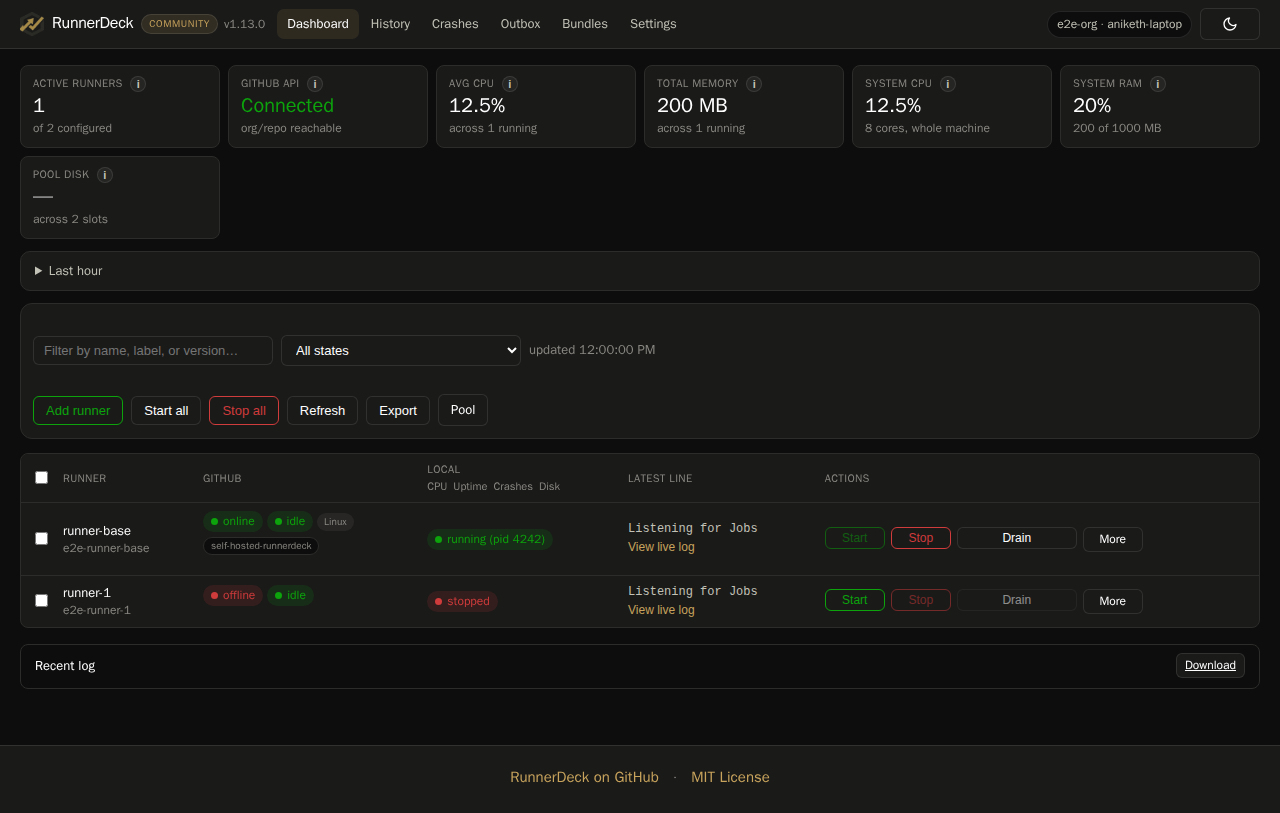
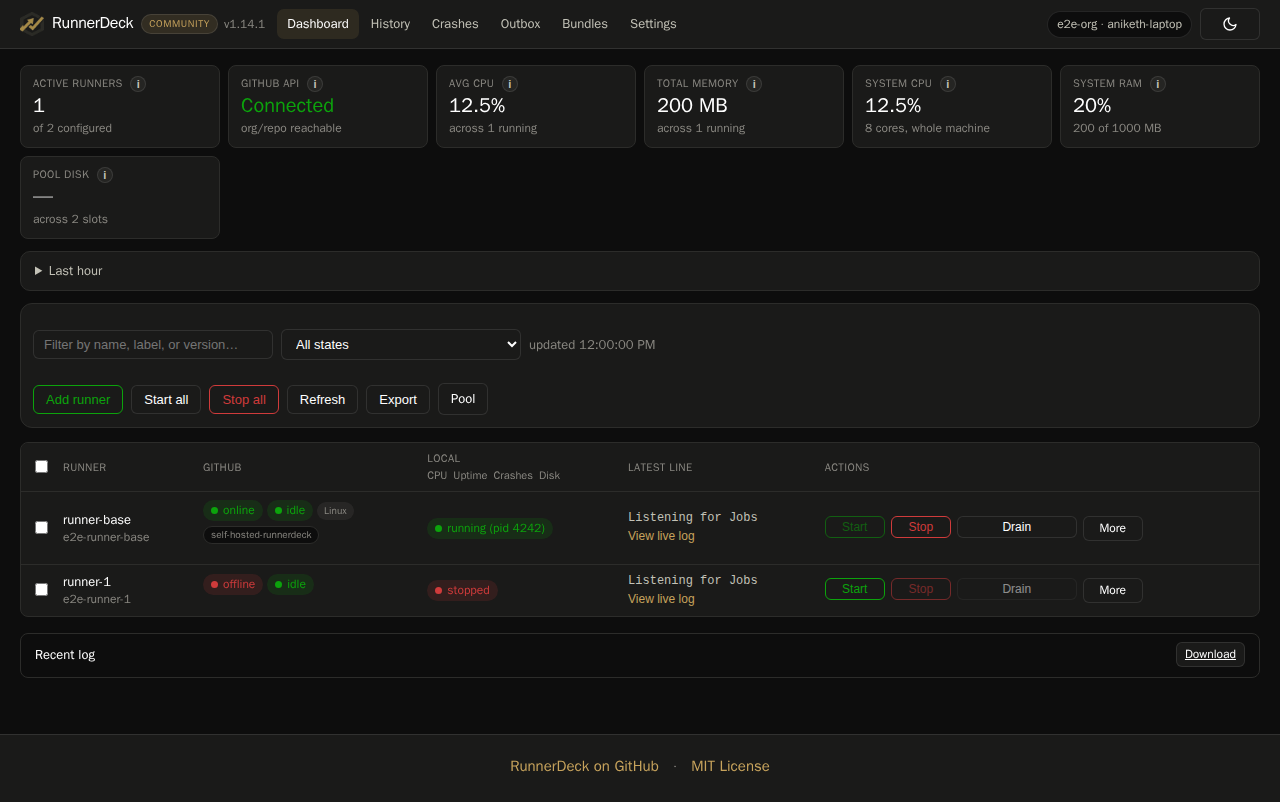
Show recent jobs, a needs-attention filter, and the row count. (#235)
* Show recent jobs, a needs-attention filter, and how many rows match.

* Refresh the dashboard screenshot for the wider status filter.

diff --git a/tests/e2e/dashboard.spec.js b/tests/e2e/dashboard.spec.js
@@ -300,6 +300,24 @@ test('the state filter narrows idle, busy, crashed, and mismatch rows', async ({
   await expect(page.locator('tr[data-runner="crash-one"]')).toBeVisible();
 });
 
+test('needs attention and the filter count', async ({ page }) => {
+  await mockStatus(page, [
+    fixtureRunner({ id: 'ok-one', agent_name: 'ok-one' }),
+    fixtureRunner({ id: 'crash-one', agent_name: 'crash-one', crash_flagged: true }),
+    fixtureRunner({ id: 'behind-one', agent_name: 'behind-one', agent_behind: true }),
+    fixtureRunner({ id: 'failed-one', agent_name: 'failed-one', last_job_failed: true }),
+  ]);
+  await page.goto('/');
+  await page.locator('#btn-refresh').click();
+  await expect(page.locator('#runner-filter-count')).toBeHidden();
+  await page.locator('#runner-state-filter').selectOption('attention');
+  await expect(page.locator('tr[data-runner]')).toHaveCount(3);
+  await expect(page.locator('tr[data-runner="ok-one"]')).toHaveCount(0);
+  await expect(page.locator('#runner-filter-count')).toHaveText('3 of 4');
+  await page.locator('#runner-filter').fill('behind');
+  await expect(page.locator('#runner-filter-count')).toHaveText('1 of 4');
+});
+
 test('the find box, status filter, and sort survive a reload', async ({ page }) => {
   await mockStatus(page, [
     fixtureRunner({ id: 'runner-2', agent_name: 'zzz-last' }),
@@ -952,12 +970,39 @@ test('runner page shows the live job and searches the log', async ({ page }) => 
         duration: '4m',
       }],
       jobs: [],
-      recent: [],
+      recent: [
+        {
+          name: 'lint',
+          conclusion: 'success',
+          repo: 'acme/app',
+          html_url: 'https://example.test/job/8',
+          runner_name: name || 'runner-1',
+          duration: '1m',
+        },
+        {
+          name: 'test',
+          conclusion: 'failure',
+          repo: 'acme/app',
+          html_url: 'https://example.test/job/7',
+          runner_name: name || 'runner-1',
+          duration: '2m',
+        },
+        {
+          name: 'other',
+          conclusion: 'success',
+          html_url: 'https://example.test/job/6',
+          runner_name: 'someone-else',
+        },
+      ],
     }),
   }));
   await page.reload();
   await expect(page.locator('#runner-page .live-job a')).toHaveAttribute('href', 'https://example.test/job/10');
   await expect(page.locator('#runner-page .live-job')).toContainText('build');
+  await expect(page.locator('#runner-page .last-jobs a')).toHaveCount(2);
+  await expect(page.locator('#runner-page .last-jobs')).toContainText('lint');
+  await expect(page.locator('#runner-page .last-jobs')).toContainText('failure');
+  await expect(page.locator('#runner-page .last-jobs')).not.toContainText('other');
   await page.locator('#runner-log-search').fill('this-will-not-match');
   await expect(page.locator('#runner-log-search-status')).toHaveText('No matches');
   await page.locator('#runner-log-search').fill('');

diff --git a/app/public/assets/runner.js b/app/public/assets/runner.js
@@ -98,6 +98,31 @@ if (page) {
     host.append(title, document.createTextNode(' '), meta);
   }
 
+  function fillRecent(host, jobs) {
+    if (!host) return;
+    host.replaceChildren();
+    if (!jobs.length) {
+      host.hidden = true;
+      return;
+    }
+    host.hidden = false;
+    jobs.forEach((job) => {
+      const line = document.createElement('div');
+      const title = document.createElement(job.html_url ? 'a' : 'span');
+      title.textContent = job.name || 'job';
+      if (job.html_url) {
+        title.href = job.html_url;
+        title.target = '_blank';
+        title.rel = 'noopener noreferrer';
+      }
+      const meta = document.createElement('span');
+      meta.className = 'muted';
+      meta.textContent = [job.conclusion, job.duration, job.repo].filter(Boolean).join(' · ');
+      line.append(title, document.createTextNode(' '), meta);
+      host.append(line);
+    });
+  }
+
   async function refreshQueue() {
     const res = await fetch('api.php?action=queue');
     if (res.status === 401) {
@@ -108,7 +133,11 @@ if (page) {
     const name = agentName();
     const live = (Array.isArray(data.live) ? data.live : [])
       .find((job) => job && job.runner_name === name) || null;
+    const recent = (Array.isArray(data.recent) ? data.recent : [])
+      .filter((job) => job && job.runner_name === name)
+      .slice(0, 2);
     fillJob(document.querySelector('#runner-page .live-job'), live);
+    fillRecent(document.querySelector('#runner-page .last-jobs'), recent);
   }
 
   async function refreshPage() {

diff --git a/app/public/assets/app.js b/app/public/assets/app.js
@@ -27,6 +27,17 @@ function initDashboard() {
     return lastSnapshot ? sortRunners(filteredRunners(lastSnapshot.runners)) : [];
   }
 
+  function paintFilterCount(visible) {
+    const el = document.getElementById('runner-filter-count');
+    if (!el) return;
+    const total = lastSnapshot && Array.isArray(lastSnapshot.runners) ? lastSnapshot.runners.length : 0;
+    const query = (document.getElementById('runner-filter')?.value || '').trim();
+    const state = document.getElementById('runner-state-filter')?.value || '';
+    const narrowed = query !== '' || state !== '';
+    el.textContent = narrowed ? `${visible.length} of ${total}` : '';
+    el.hidden = !narrowed;
+  }
+
   function setBanner(text, hidden) {
     bannerEl.hidden = hidden;
     bannerEl.className = 'banner';
@@ -71,6 +82,7 @@ function initDashboard() {
     });
 
     const visible = visibleRows();
+    paintFilterCount(visible);
     const rowsKey = JSON.stringify({
       runners: snapshot.view && snapshot.view.rows_html ? snapshot.view.rows_html : snapshot.runners,
       filter: document.getElementById('runner-filter').value,

diff --git a/app/public/assets/js/table.js b/app/public/assets/js/table.js
@@ -7,6 +7,12 @@ export function matchesState(runner, state) {
   if (state === 'busy') return Boolean(runner.github && runner.github.busy);
   if (state === 'crashed') return Boolean(runner.crash_flagged);
   if (state === 'mismatch') return Boolean(runner.mismatch_flagged);
+  if (state === 'attention') {
+    return Boolean(runner.crash_flagged)
+      || Boolean(runner.mismatch_flagged)
+      || Boolean(runner.last_job_failed)
+      || Boolean(runner.agent_behind);
+  }
   return true;
 }
 

diff --git a/app/public/assets/style.css b/app/public/assets/style.css
@@ -595,9 +595,10 @@ main {
 .dash-find .filter-input { width: min(100%, 240px); }
 .filter-select {
   width: auto;
-  min-width: 8.5rem;
+  min-width: 11rem;
   cursor: pointer;
 }
+.filter-count { white-space: nowrap; }
 
 .checkbox-label {
   display: flex;

diff --git a/app/public/index.php b/app/public/index.php
@@ -302,7 +302,9 @@ Layout::topbarEnd(!$needsSetup);
             <option value="busy">Busy</option>
             <option value="crashed">Crashed</option>
             <option value="mismatch">Mismatch</option>
+            <option value="attention">Needs attention</option>
           </select>
+          <span id="runner-filter-count" class="muted filter-count" hidden></span>
           <span id="last-updated" class="muted"><?= htmlspecialchars($updated) ?></span>
           <span id="action-status" class="muted action-status" hidden></span>
         </div>

diff --git a/CHANGELOG.md b/CHANGELOG.md
@@ -11,6 +11,9 @@ follows [SemVer](https://semver.org/).
 - The runner page shows the job that runner is working on, and the log on that page can be searched in place.
 - A failed last job links to that job on GitHub from the row and the runner page.
 - The find box, status filter, and column sort stay in place after a reload.
+- The runner page lists the last two finished jobs for that runner.
+- Needs attention shows crashed, mismatched, failed-last-job, and stale-agent runners together.
+- The find box and status filter show how many rows are visible, such as 3 of 12.
 
 ### Changed
 

diff --git a/docs/how-it-works.md b/docs/how-it-works.md
@@ -95,7 +95,7 @@
   same, you just don't get the chart.
 - A **filter box** narrows the table by runner ID, registered name,
   agent version, or GitHub label. A
-  **state** dropdown (idle / busy / crashed / mismatch) stacks on that
+  **state** dropdown (idle / busy / crashed / mismatch / needs attention) stacks on that
   name filter from the same snapshot. Each runner's log can be
   **downloaded in full**, not just tailed — or
   narrowed to a time range first, using whatever timestamps the runner's
